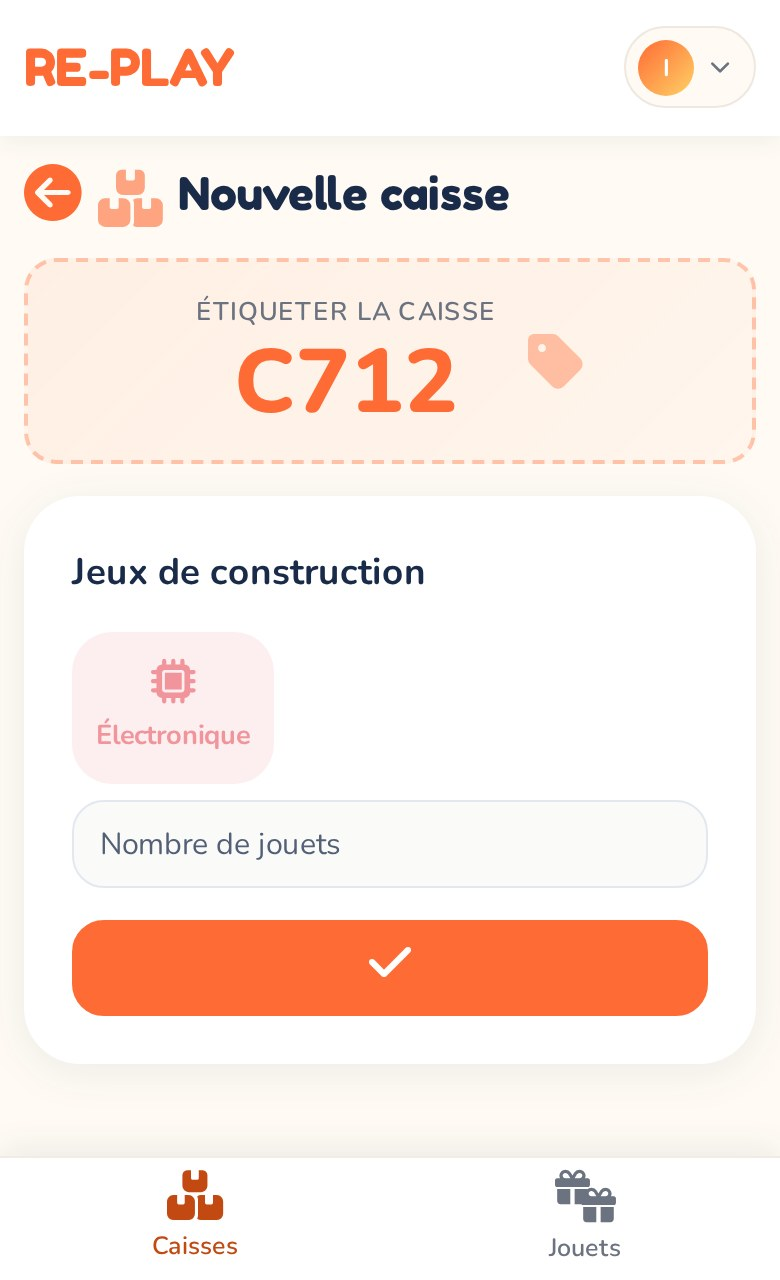
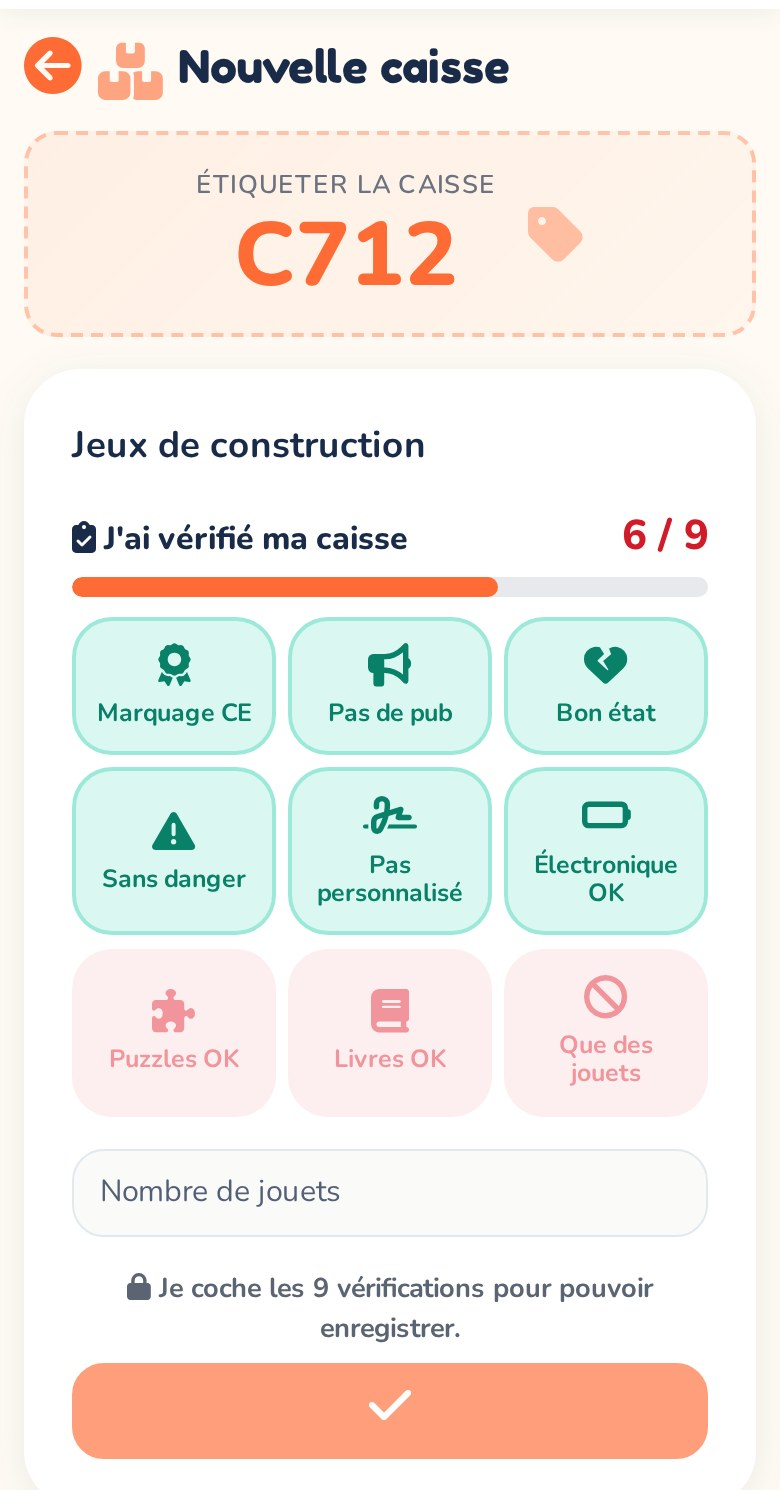
TRI : neuf vérifications à cocher à la création d'une caisse ; bouton Électronique retiré
À l'étape 2 de la création, le trieur coche les neuf points des consignes du TRI
(rouge puis vert, compteur, légende) ; la caisse ne s'enregistre qu'à 9 / 9 et
sa fiche affiche « Tri vérifié ». Le bouton Électronique, plus utilisé, disparaît
des écrans. Procédure Tri : vérifications, exception des grosses pièces, règle
des puzzles (65 pièces pour les grosses pièces type Djeco) ; captures reprises.

Claude-Session: https://claude.ai/code/session_01Ntw61KqSiSRAouwbz7PgoR

diff --git a/app/assets/stylesheets/components/_cards.scss b/app/assets/stylesheets/components/_cards.scss
@@ -1059,6 +1059,24 @@ a.toy-card {
   border-top: 1px dashed rgba($navy, 0.2);
   padding-top: 0.75rem;
 }
+// Vérifications du TRI à la création d'une caisse (rouge → vert, comme les critères du valoriste).
+.tri-checklist {
+  .tri-checklist-head { display: flex; justify-content: space-between; align-items: baseline; gap: 0.5rem; font-weight: 800; color: $navy; margin-bottom: 0.3rem;
+    strong { font-size: 1.3rem; color: darken($danger-red, 10%); } }
+  .tri-checklist-track { height: 10px; background: rgba($navy, 0.1); border-radius: 999px; overflow: hidden; margin-bottom: 0.6rem; }
+  .tri-checklist-fill { height: 100%; width: 0; background: $coral; border-radius: 999px; transition: width 0.25s ease; }
+  .tri-checklist-grid { display: grid; grid-template-columns: repeat(3, minmax(0, 1fr)); gap: 0.4rem;
+    .condition-toggle-label { min-height: 68px; font-size: 0.78rem; line-height: 1.15; i { font-size: 1.35rem; } } }
+  &.tri-checklist--complete {
+    .tri-checklist-head strong { color: darken($mint, 15%); }
+    .tri-checklist-fill { background: darken($mint, 15%); }
+  }
+}
+form.tri-checklist--complete .tri-checklist-head strong { color: darken($mint, 15%); }
+form.tri-checklist--complete .tri-checklist-fill { background: darken($mint, 15%); }
+.tri-checklist-hint { font-size: 0.85rem; font-weight: 700; color: #5B6472; text-align: center; margin-bottom: 0.4rem; }
+.tri-verified { color: darken($mint, 15%); }
+
 // Jauge d'une caisse : jouets sortis / jouets annoncés.
 .box-progress {
   grid-column: 1 / -1; width: 100%;

diff --git a/app/javascript/controllers/tri_checklist_controller.js b/app/javascript/controllers/tri_checklist_controller.js
@@ -1,0 +1,25 @@
+import { Controller } from "@hotwired/stimulus"
+
+// Création d'une caisse : le compteur et la barre suivent les vérifications du
+// TRI cochées, et le bouton d'enregistrement ne se libère qu'à 100 %.
+export default class extends Controller {
+  static targets = ["check", "count", "fill", "submit", "hint"]
+  static values = { required: Boolean }
+
+  connect() {
+    this.refresh()
+  }
+
+  refresh() {
+    const total = this.checkTargets.length
+    const done = this.checkTargets.filter(input => input.checked).length
+    const complete = done === total
+    this.countTarget.textContent = `${done} / ${total}`
+    this.fillTarget.style.width = `${Math.round((done * 100) / total)}%`
+    this.element.classList.toggle("tri-checklist--complete", complete)
+    if (!this.requiredValue) return
+
+    this.submitTarget.disabled = !complete
+    this.hintTarget.hidden = complete
+  }
+}

diff --git a/app/models/quality_cause.rb b/app/models/quality_cause.rb
@@ -49,7 +49,7 @@ class QualityCause
     { key: "electronique",   tri: true,  label: "Électronique HS",   icon: "fa-battery-empty",
       help: "Ne s'allume plus, ou piles qui ont coulé." },
     { key: "puzzle",         tri: true,  label: "Puzzle refusé",     icon: "fa-puzzle-piece",
-      help: "Plus de 60 pièces, ou puzzle sans boîte." },
+      help: "Plus de 60 pièces (65 pour les grosses pièces type Djeco), ou sans boîte." },
     { key: "livre",          tri: true,  label: "Livre refusé",      icon: "fa-book",
       help: "Pas pour l'âge visé, ou contenu inapproprié." },
     { key: "hors_perimetre", tri: true,  label: "Pas un jouet",      icon: "fa-ban",
@@ -74,8 +74,24 @@ class QualityCause
   DISCARD_KEYS = DISCARD.map(&:key).freeze
   TRI_KEYS = DISCARD.select(&:tri).map(&:key).freeze
 
-  def self.cq(key) = CQ.find { |c| c.key == key }
   def self.discard(key) = DISCARD.find { |c| c.key == key }
+
+  # Vérifications du TRI à cocher à la création d'une caisse : le pendant positif
+  # des neuf raisons d'écarter que le TRI doit éviter (mêmes clés, mêmes pictogrammes).
+  TRI_CHECKS = {
+    "sans_ce" => ["Marquage CE", "Chaque jouet porte le marquage CE."],
+    "publicitaire" => ["Pas de pub", "Aucun jouet publicitaire ou promotionnel."],
+    "trop_abime" => ["Bon état", "Rien de cassé, recollé, mordu, déchiré."],
+    "dangereux" => ["Sans danger", "Rien de coupant, d'écaillé ou de rouillé."],
+    "personnalise" => ["Pas personnalisé", "Pas de prénom gravé, pas de fait maison."],
+    "electronique" => ["Électronique OK", "Les jouets à piles fonctionnent, piles saines."],
+    "puzzle" => ["Puzzles OK", "60 pièces au plus (65 pour les grosses pièces type Djeco), avec leur boîte."],
+    "livre" => ["Livres OK", "Pour l'âge visé, propres, non abîmés."],
+    "hors_perimetre" => ["Que des jouets", "Pas de sac, déco, puériculture, CD ou DVD."]
+  }.map { |key, (label, help)| Cause.new(key: key, label: label, help: help, icon: discard(key).icon, tri: true) }.freeze
+  TRI_CHECK_KEYS = TRI_CHECKS.map(&:key).freeze
+
+  def self.cq(key) = CQ.find { |c| c.key == key }
   def self.cq_labels(keys) = Array(keys).filter_map { |k| cq(k)&.label }
   def self.discard_labels(keys) = Array(keys).filter_map { |k| discard(k)&.label }
 end

diff --git a/test/controllers/boxes_controller_test.rb b/test/controllers/boxes_controller_test.rb
@@ -80,8 +80,27 @@ class BoxesControllerTest < ActionDispatch::IntegrationTest
     get box_path(draft)
     assert_redirected_to edit_box_path(draft, new: true)
 
-    patch box_path(draft), params: { box: { nb_toys: 3 } }
+    # étape 2 : les neuf vérifications du tri sont exigées pour enregistrer
+    assert_select "input[name='box[tri_checks][]'][type=checkbox]", count: 0 # (page précédente : redirection)
+    get edit_box_path(draft, new: true)
+    assert_select "input[name='box[tri_checks][]'][type=checkbox]", count: QualityCause::TRI_CHECKS.size
+    patch box_path(draft), params: { box: { nb_toys: 3, tri_checks: QualityCause::TRI_CHECK_KEYS.first(8) } }
+    assert_response :unprocessable_entity
+    assert draft.reload.draft?
+    assert_select ".alert", text: /Cochez toutes les vérifications du tri/
+    assert_select "input[name='box[tri_checks][]'][checked]", count: 8 # la saisie est conservée
+
+    patch box_path(draft), params: { box: { nb_toys: 3, tri_checks: QualityCause::TRI_CHECK_KEYS } }
     assert draft.reload.pending?
+    assert draft.tri_checked?
+    get box_path(draft)
+    assert_select ".tri-verified", text: /Tri vérifié/
+
+    # une caisse déjà enregistrée se modifie sans que la liste soit exigée
+    touch(@box, @user)
+    patch box_path(@box), params: { box: { nb_toys: 7 } }
+    assert_redirected_to box_path(@box)
+    assert_equal 7, @box.reload.nb_toys
   end
 
   test "une caisse en brouillon n'apparaît pas chez un autre employé" do

diff --git a/app/controllers/boxes_controller.rb b/app/controllers/boxes_controller.rb
@@ -86,8 +86,18 @@ class BoxesController < ApplicationController
 
   def update
     authorize @box
-    @box.status = :pending if @box.draft?
-    @box.update(box_params)
+    creating = @box.draft?
+    @box.assign_attributes(box_params)
+    # À la création, la caisse n'est enregistrée que si le TRI a coché ses neuf vérifications.
+    if creating && !@box.tri_checked?
+      @box.errors.add(:base, "Cochez toutes les vérifications du tri avant d'enregistrer la caisse.")
+      params[:new] = "true"
+      return render :edit, status: :unprocessable_entity
+    end
+
+    @box.status = :pending if creating
+    return render :edit, status: :unprocessable_entity unless @box.save
+
     Action.create!(user: current_user, actionable: @box,
                    content: "#{current_user.email} a modifié la caisse C#{@box.id}")
     redirect_to box_path(@box), status: :see_other
@@ -147,6 +157,8 @@ class BoxesController < ApplicationController
 
   def box_params
     # :status volontairement exclu — le cycle de vie passe par toggle_empty/destroy/restore.
-    params.require(:box).permit(:category_id, :electronic, :nb_toys)
+    permitted = params.require(:box).permit(:category_id, :nb_toys, tri_checks: [])
+    permitted[:tri_checks] = Array(permitted[:tri_checks]).compact_blank if permitted.key?(:tri_checks)
+    permitted
   end
 end

diff --git a/db/schema.rb b/db/schema.rb
@@ -10,7 +10,7 @@
 #
 # It's strongly recommended that you check this file into your version control system.
 
-ActiveRecord::Schema[8.1].define(version: 2026_11_16_170000) do
+ActiveRecord::Schema[8.1].define(version: 2026_11_16_200000) do
   # These are extensions that must be enabled in order to support this database
   enable_extension "pg_catalog.plpgsql"
 
@@ -60,6 +60,7 @@ ActiveRecord::Schema[8.1].define(version: 2026_11_16_170000) do
     t.boolean "electronic"
     t.integer "nb_toys"
     t.string "status", default: "pending", null: false
+    t.string "tri_checks", default: [], null: false, array: true
     t.datetime "updated_at", null: false
     t.index ["category_id"], name: "index_boxes_on_category_id"
     t.index ["created_at"], name: "index_boxes_on_created_at"

diff --git a/app/models/box.rb b/app/models/box.rb
@@ -9,6 +9,10 @@ class Box < ApplicationRecord
   after_initialize :set_default_status, if: :new_record?
 
   validates :status, presence: true
+  validate :tri_checks_are_known
+
+  # Les neuf vérifications du TRI ont-elles toutes été cochées ?
+  def tri_checked? = (QualityCause::TRI_CHECK_KEYS - tri_checks).empty?
   scope :active, -> { where(status: :pending) }
   scope :deleted, -> { where(status: :suppr) }
 
@@ -20,6 +24,11 @@ class Box < ApplicationRecord
   end
 
   private
+
+  def tri_checks_are_known
+    unknown = Array(tri_checks) - QualityCause::TRI_CHECK_KEYS
+    errors.add(:tri_checks, "inconnues : #{unknown.join(', ')}") if unknown.any?
+  end
 
   def set_default_status
     self.status ||= :pending

diff --git a/test/controllers/pages_controller_test.rb b/test/controllers/pages_controller_test.rb
@@ -109,7 +109,7 @@ class PagesControllerTest < ActionDispatch::IntegrationTest
     assert_select ".procedure-causes li", count: QualityCause::DISCARD.size
     get procedure_path("tri")
     assert_response :success
-    assert_select ".procedure-causes li", count: QualityCause::TRI_KEYS.size
+    assert_select ".procedure-causes li", count: QualityCause::TRI_KEYS.size + QualityCause::TRI_CHECKS.size
     %w[controle-qualite tableau-de-bord].each do |slug|
       get procedure_path(slug)
       assert_redirected_to root_path

diff --git a/db/migrate/20261116200000_add_tri_checks_to_boxes.rb b/db/migrate/20261116200000_add_tri_checks_to_boxes.rb
@@ -1,0 +1,8 @@
+# Vérifications du TRI cochées par la personne qui crée la caisse (clés de
+# QualityCause::TRI_CHECKS). Une caisse ne peut être enregistrée que toutes
+# cochées : c'est l'équivalent, pour le TRI, des six critères du valoriste.
+class AddTriChecksToBoxes < ActiveRecord::Migration[8.1]
+  def change
+    add_column :boxes, :tri_checks, :string, array: true, null: false, default: []
+  end
+end

diff --git a/CLAUDE.md b/CLAUDE.md
@@ -36,7 +36,7 @@ Rails 8.1.2 app (Ruby 3.3.5) bootstrapped from the Le Wagon template. PostgreSQL
 The app manages donated/refurbished toy inventory for a French resale operation:
 
 - **Category** — top-level grouping (e.g. puzzle, jeu de société). `mixed` (boolean) flags a box-only category: **« Grosses pièces »** = a 2 m roll mixing bulky toys of different categories. Such a category can be picked for a Box, never for a Toy (`Category.for_toys`, validation on Toy), and a toy created from that box inherits **no** category (`Box#toy_category` → nil, `toys.category_id` is nullable): the operator must choose it in the form; until then badges show « À choisir » (`category_icon` / `category_name` helpers — never call `toy.category.name` directly).
-- **Box** — a physical donation box, belongs to a Category, has an electronic flag and `nb_toys` (number announced by the TRI operator). **Jauge** (`boxes/_progress`, on the box page and on list cards): toys taken out (all operators, discarded included, drafts excluded) / `nb_toys` — orange while in progress, green + check when exact, **red + warning when more toys came out than announced**. Marking a box empty is always manual (`toggle_empty`): by its creator (the TRI operator who gets it back), by whoever created the last toy from it, or by an admin
+- **Box** — a physical donation box, belongs to a Category, has `nb_toys` (number announced by the TRI operator). **Jauge** (`boxes/_progress`, on the box page and on list cards): toys taken out (all operators, discarded included, drafts excluded) / `nb_toys` — orange while in progress, green + check when exact, **red + warning when more toys came out than announced**. **Vérifications du TRI** : at creation (step 2), the 9 checks of `QualityCause::TRI_CHECKS` (positive counterpart of the 9 TRI discard causes, stored in `boxes.tri_checks`) must all be ticked — red until ticked, green after, like the valorisation criteria; the save button unlocks at 9/9 (Stimulus `tri-checklist`) and `boxes#update` refuses a draft otherwise. The old « Électronique » toggle was removed from the screens on 16/11/2026 (no longer used; the `boxes.electronic` column remains, unused). Marking a box empty is always manual (`toggle_empty`): by its creator (the TRI operator who gets it back), by whoever created the last toy from it, or by an admin
 - **Toy** — individual toy, belongs to a Box and Category. Has condition fields (`clean`, `complete`, `playable`), `location` (defaults to "En attente de validation"), `price` (AI-suggested), `barcode`, and an attached `photo`
 - **Action** — polymorphic audit log; records every user action on a Box or Toy with a `content` string. Also used to determine ownership for authorization.
 - **User** — Devise authentication with an `admin` boolean flag
